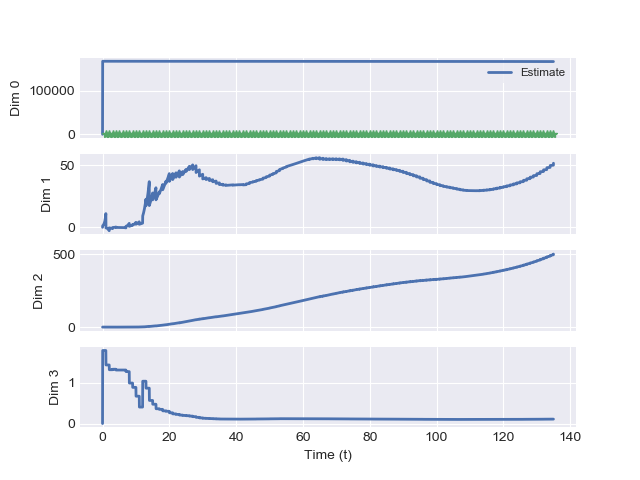
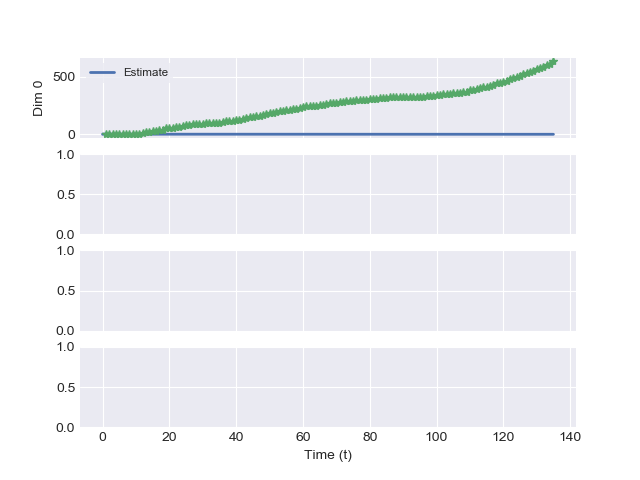
retrieved c22
Main now gets c22 (average) from DA

diff --git a/main.py b/main.py
@@ -13,9 +13,10 @@ class_size = 10
 # http ://www.apple.com/covid19/mobility we could use this mobility data to get an idea for C[1,1]
 
 # Compartmental model parameters
+C22 = np.mean(np.load("real_data/c_values_beta=1.npy")[:,3])
 uni_city_coupling = float(1.0)
-C = np.array([[1, uni_city_coupling],
-              [uni_city_coupling, 1]]) # Unscaled contact matrix
+C = np.array([[1, uni_city_coupling * C22],
+              [uni_city_coupling* C22, C22]]) # Unscaled contact matrix
 beta = 1 #0.69 # Infection rate (chosen from paper)
 gamma = 0.07 # Inverse of latent time to infection (chosen from paper)
 lam = 0.1 # Recovery rate (chosen from paper) (choose between 0.07 to 0.5)
@@ -43,6 +44,6 @@ initial_infected = 1 # Always starts in the largest compartment!
 num_weeks = 6
 
 # Run and plot
-Cs, solutions = multiscale_model.run(initial_infected, num_weeks, class_periods, class_size,
-                     n, beta, gamma, lam, kappa,  C, Q_percent, compartment_sizes, schedule_type = stype, majors = major_size)
+#Cs, solutions = multiscale_model.run(initial_infected, num_weeks, class_periods, class_size,
+#                     n, beta, gamma, lam, kappa,  C, Q_percent, compartment_sizes, schedule_type = stype, majors = major_size)
 

diff --git a/real_data/enkf_build.py b/real_data/enkf_build.py
@@ -124,9 +124,9 @@ my_EnKF(ensemble_members)
 
 # Plot
 fig, axs = plt.subplots(4, 1, True)
-for m in range(4):
+for m in range(1):
     # axs[m].plot(dt * np.arange(K + 1), xx[:, m], 'k', label="Truth")
-    axs[m].plot(dt * np.arange(K + 1), xxhat[:, m], 'b', label="Estimate")
+    axs[m].plot(dt * np.arange(K + 1), xxhat[:, 3], 'b', label="Estimate")
     if m < p:
         axs[m].plot(dtObs * np.arange(1, KObs + 2), yy[:, m], 'g*')
     axs[m].set_ylabel("Dim %d" % m)
@@ -134,4 +134,4 @@ axs[0].legend()
 plt.xlabel("Time (t)")
 plt.savefig("test.png")
 
-np.save("c_values_beta=1.npy", xxhat)
+#np.save("c_values_beta=1.npy", xxhat)
